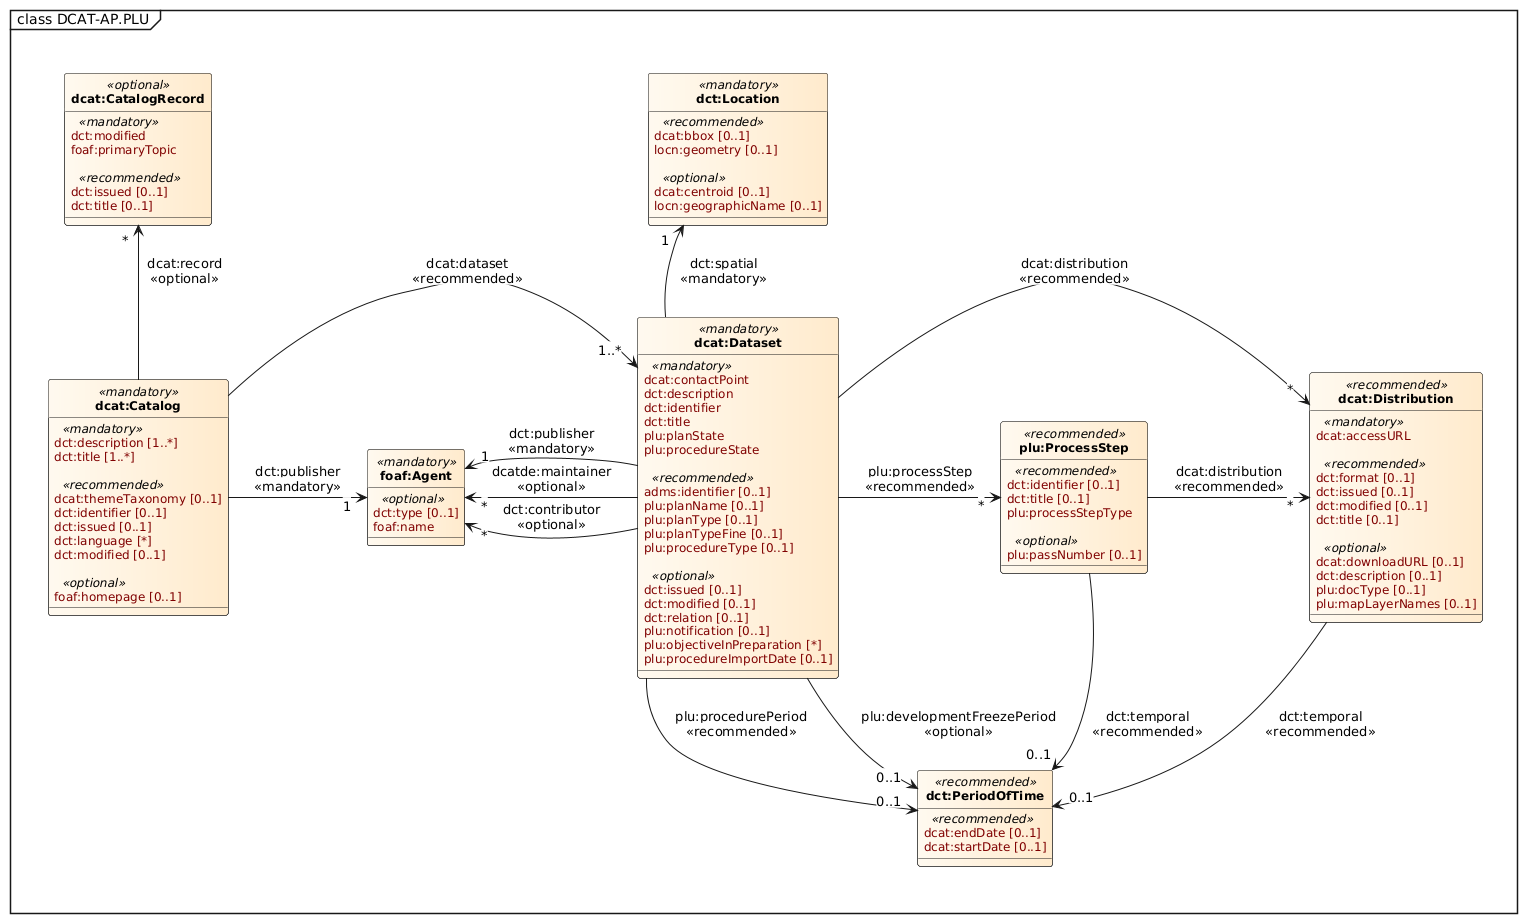
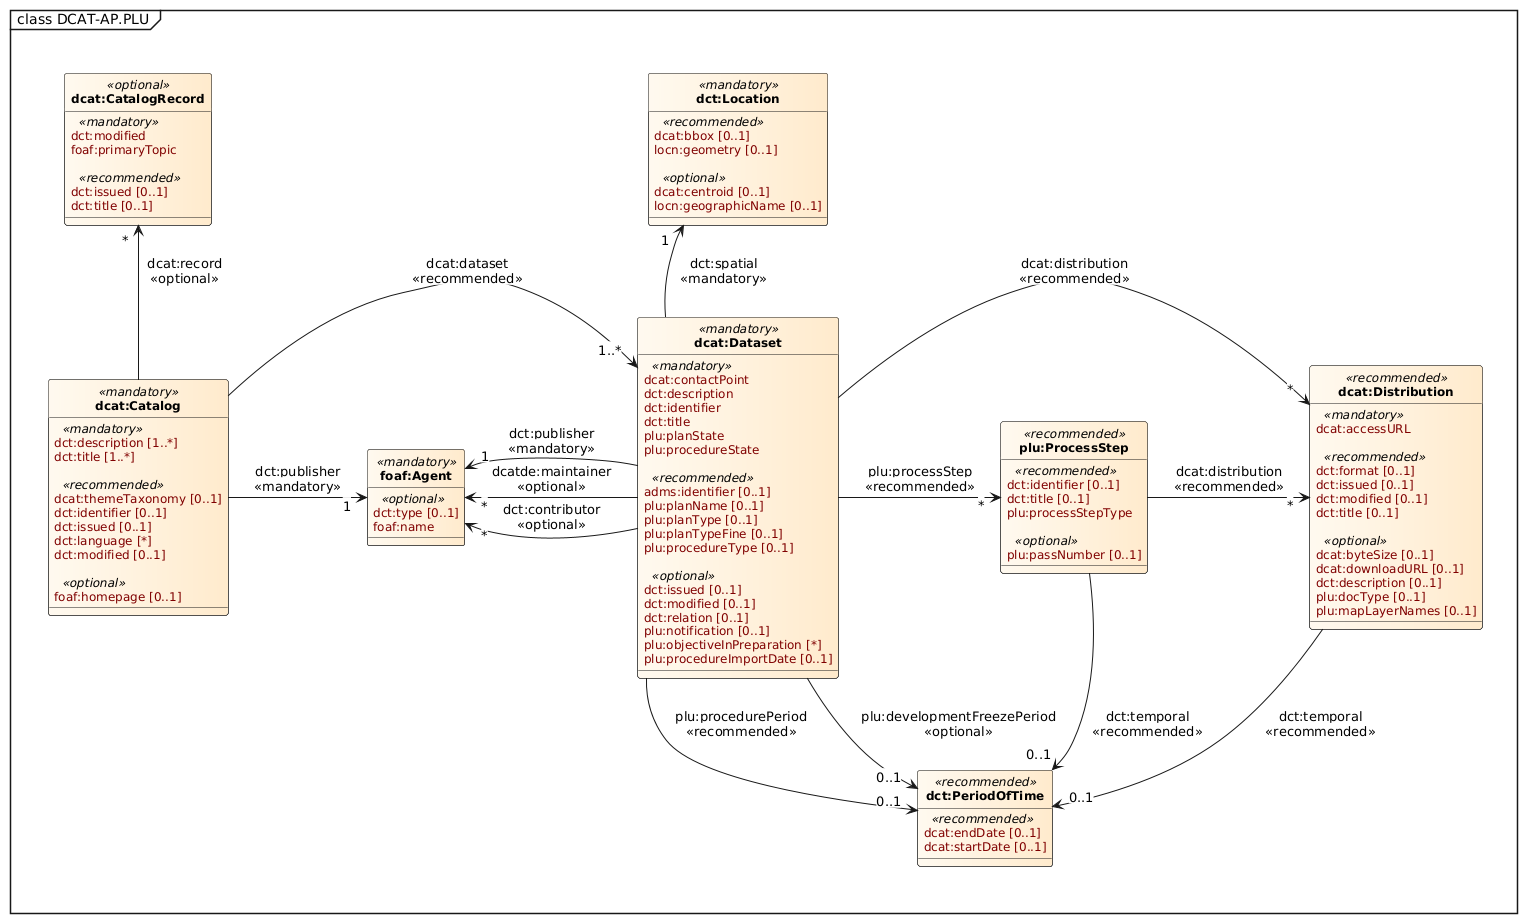
Add attribute `dcat:Distribution` > `dcat:byteSize`

Changed region(s): [[0.8647, 0.3965, 0.9882, 0.7015]]

diff --git a/drafts/0.0.1-draft-0.1/doc-plu.html b/drafts/0.0.1-draft-0.1/doc-plu.html
@@ -797,6 +797,19 @@
          </tbody>
        </table>
        </section>
+
+       <section id="Property:distribution_byte_size">
+        <h4 id="property-distribution-byte-size">Eigenschaft: Dateigröße</h4>
+        <table class="definition">
+          <thead><tr><th>URI:</th><th>dcat:byteSize</th></tr></thead>
+          <tbody>
+          <tr><td class="prop">Verbindlichkeit:</td><td>Optional</td></tr>
+          <tr><td class="prop">Definition:</td><td>Größe der Distribution in Bytes</td></tr>
+          <tr><td class="prop">Typ/Wertebereich:</td><td><a href="https://www.w3.org/TR/rdf-schema/#ch_literal"><code title="http://www.w3.org/2000/01/rdf-schema#Literal">rdfs:Literal</code></a> als <code>xsd:nonNegativeInteger</code></td></tr>
+          <tr><td class="prop">Anwendungshinweis:</td><td>Mit dieser Eigenschaft kann die Größe der Distribution in Bytes angegeben werden, falls bekannt.</td></tr>
+         </tbody>
+       </table>
+       </section>
      </section>
 
       <section id="Class:Process_Step">

diff --git a/CHANGELOG.md b/CHANGELOG.md
@@ -2,6 +2,7 @@
 
 ## xxxx-xx-xx - dev
 
+* [Spec] Add new attribute `dcat:byteSize` to `dcat:Distribution`
 * [Spec] Add new attribute `plu:objectiveInPreparation` to `dcat:Dataset`
 * [Codelist] Add `objectiveInPreparation` codelist
 * [Deployment] Update docker base image, always use lighttpd latest
